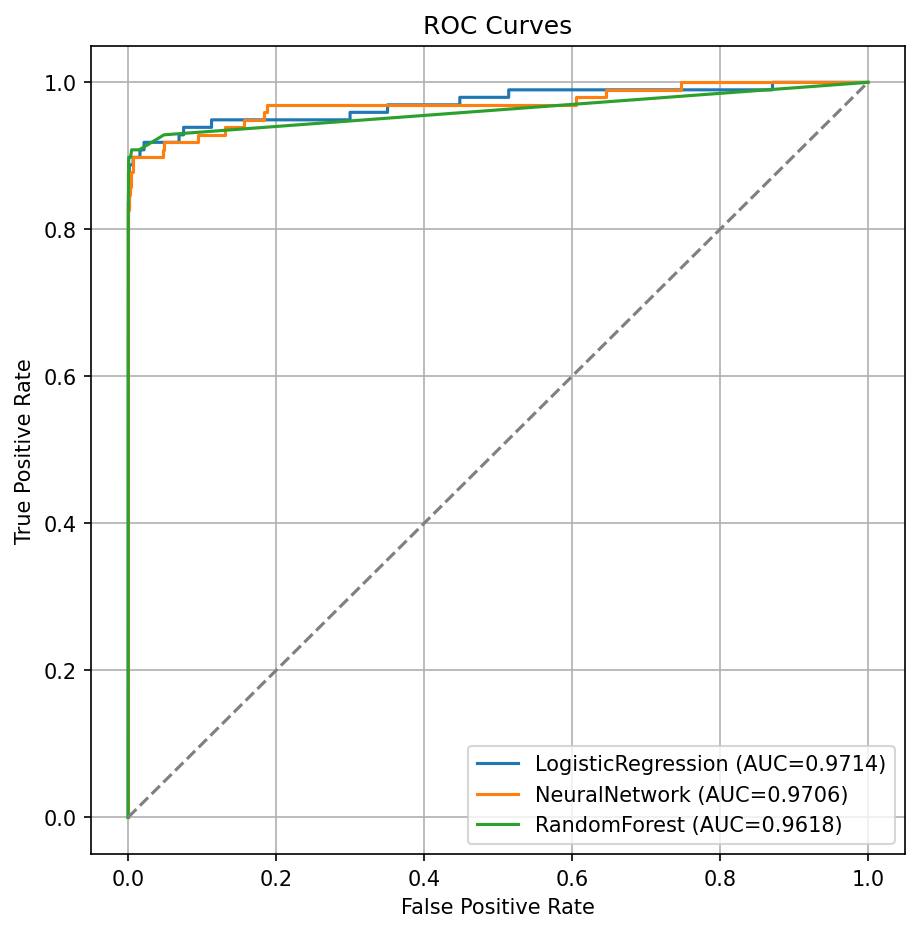
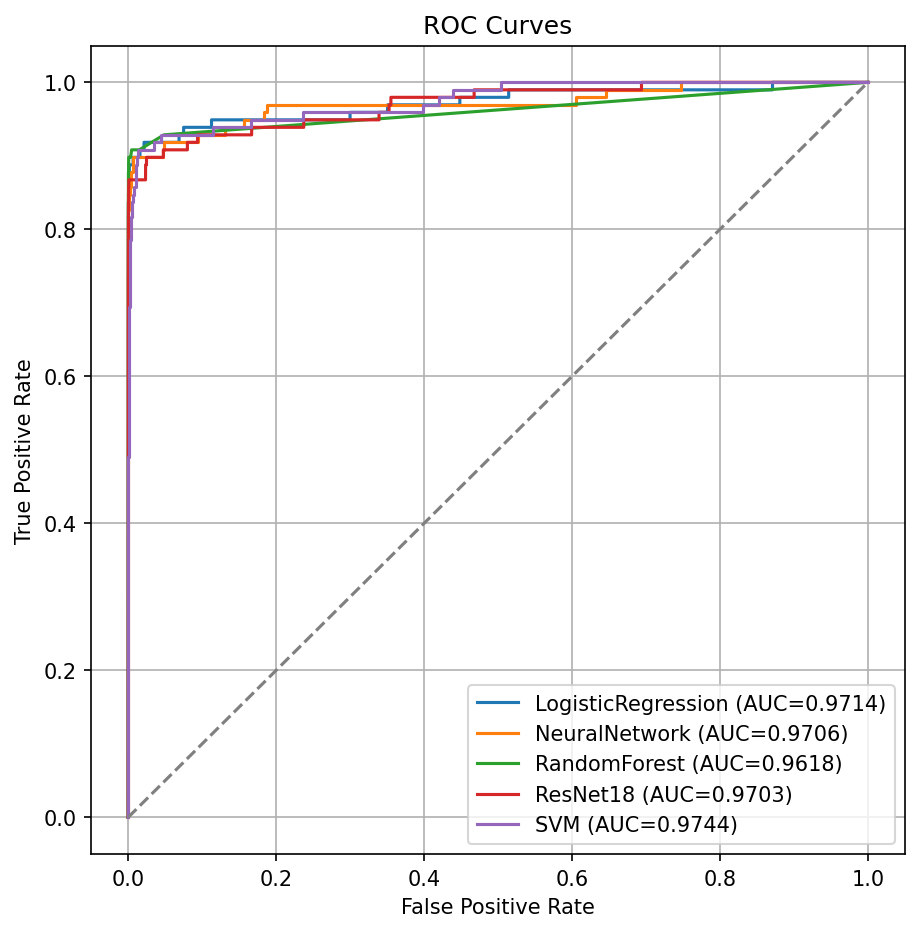
update fix lỗi, train

Changed region(s): [[0.518, 0.7157, 0.975, 0.9024], [0.1523, 0.0622, 0.9445, 0.1867], [0.1219, 0.1867, 0.1523, 0.8712]]

diff --git a/src/eval.py b/src/eval.py
@@ -4,6 +4,7 @@
 
 import os
 import json
+import sys
 import joblib
 import pandas as pd
 import matplotlib.pyplot as plt
@@ -15,6 +16,11 @@ from sklearn.metrics import (
     roc_curve,
 )
 from preprocess import load_data, split_data
+from train import ResNet18TabularClassifier
+
+
+# Đảm bảo joblib có thể tìm thấy class khi deserialize ResNet18 joblib (được pickled khi train.py chạy dưới __main__)
+sys.modules.setdefault("__main__", sys.modules[__name__]).ResNet18TabularClassifier = ResNet18TabularClassifier
 
 
 def evaluate_all(models_dir: str = "models", data_path: str = "data/creditcard.csv"):
@@ -59,6 +65,10 @@ def evaluate_all(models_dir: str = "models", data_path: str = "data/creditcard.c
     out_path = os.path.join("reports", "roc_curves.png")
     plt.savefig(out_path, dpi=150, bbox_inches="tight")
     print(f"\n🖼 Lưu ROC Curves vào {out_path}")
+    try:
+        plt.show(block=True)
+    except Exception as exc:
+        print(f"⚠ Không thể hiển thị biểu đồ trực tiếp: {exc}")
 
     # Lưu tổng hợp metric
     with open(os.path.join("reports", "evaluation_summary.json"), "w", encoding="utf-8") as f:
